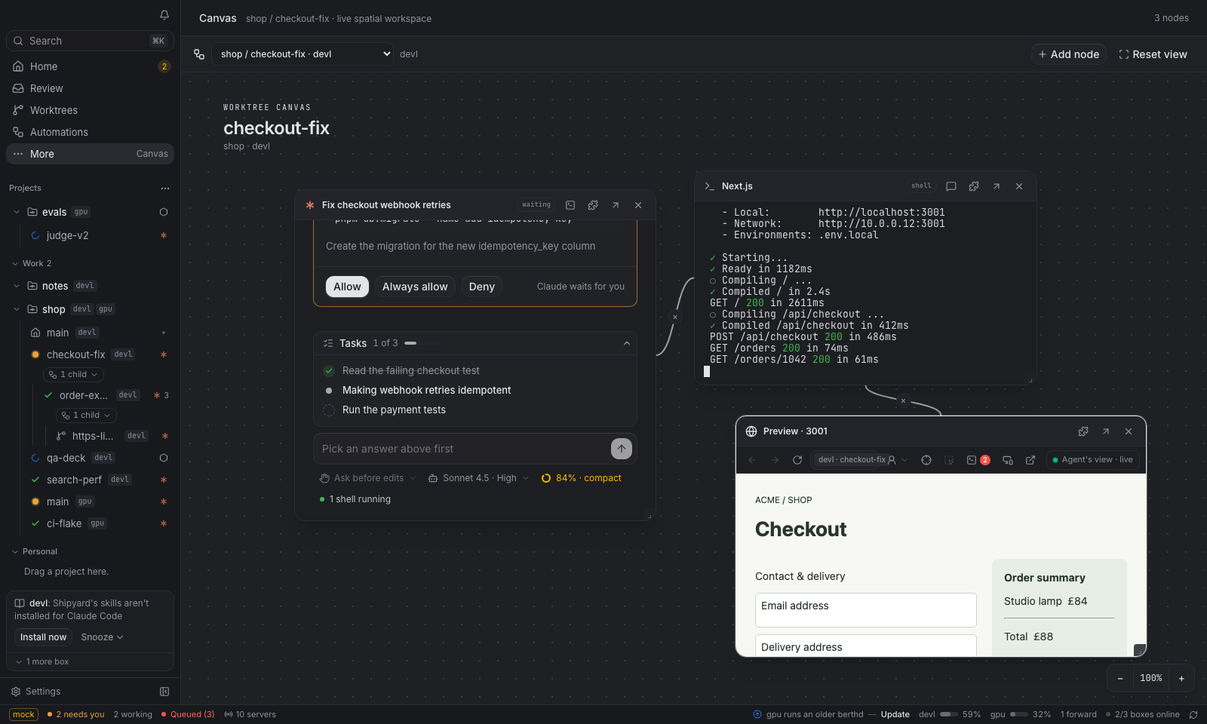
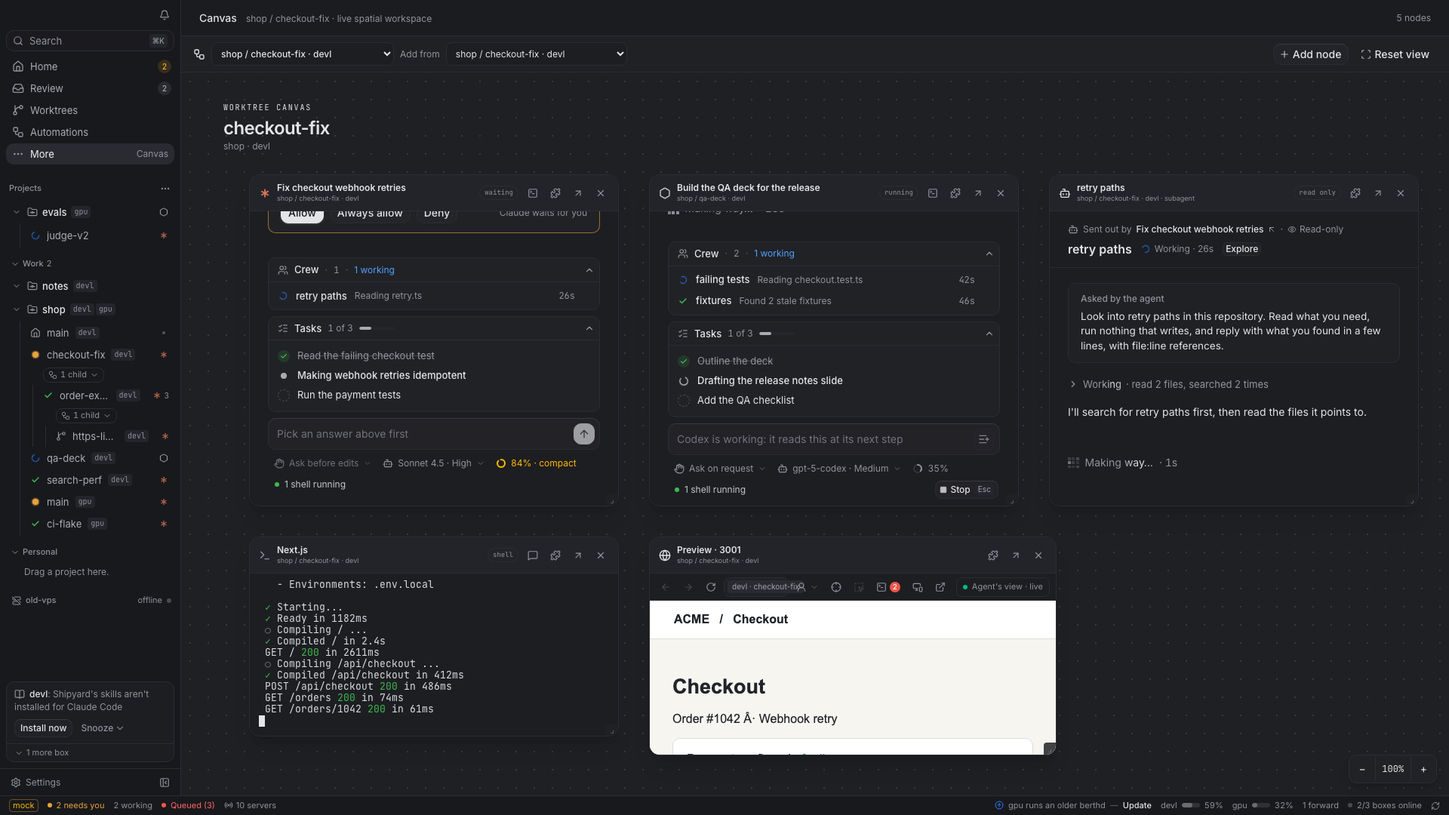
feat(app): show multiple worktrees and subagents on canvas

diff --git a/plugins/canvas/src/index.tsx b/plugins/canvas/src/index.tsx
@@ -1,13 +1,15 @@
-import { definePlugin, useBoxes, useCurrentWorktree, useEvent, useSessions, useStorage, type CurrentWorktree, type ScreenProps, type Service, type Session } from "@berth/plugin";
-import { AgentIcon, BrowserSurface, Button, Icon, Menu, MenuItem, MenuPopup, MenuSeparator, MenuTrigger, SessionSurface, ViewHeader } from "@berth/plugin/ui";
+import { definePlugin, useBoxes, useCurrentWorktree, useEvent, useFleetSessions, useStorage, type CurrentWorktree, type ScreenProps, type Service, type Session } from "@berth/plugin";
+import { AgentIcon, BrowserSurface, Button, HelperSurface, Icon, Menu, MenuItem, MenuPopup, MenuSeparator, MenuTrigger, SessionSurface, ViewHeader } from "@berth/plugin/ui";
 import { useEffect, useMemo, useRef, useState, type PointerEvent as ReactPointerEvent } from "react";
 
 const MIN_ZOOM = 0.55;
 const MAX_ZOOM = 1.5;
 
-type SessionNode = { id: string; kind: "session"; box: string; session: string; agent?: string; mode: "chat" | "terminal"; x: number; y: number; w: number; h: number };
-type PreviewNode = { id: string; kind: "preview"; box: string; port: number; x: number; y: number; w: number; h: number };
-type Node = SessionNode | PreviewNode;
+type BaseNode = { id: string; box: string; source?: Worktree; x: number; y: number; w: number; h: number };
+type SessionNode = BaseNode & { kind: "session"; session: string; agent?: string; mode: "chat" | "terminal" };
+type PreviewNode = BaseNode & { kind: "preview"; port: number };
+type HelperNode = BaseNode & { kind: "helper"; session: string; helper: string; name: string };
+type Node = SessionNode | PreviewNode | HelperNode;
 type Link = { from: string; to: string };
 type Board = { nodes: Node[]; links: Link[] };
 type Worktree = CurrentWorktree;
@@ -16,7 +18,10 @@ type Gesture = { id: string; kind: "move" | "resize"; x: number; y: number; node
 const keyOf = (w: Worktree) => `${w.box}:${w.path}`;
 const sessionId = (box: string, session: string) => `session:${box}:${session}`;
 const previewId = (box: string, port: number) => `preview:${box}:${port}`;
+const helperId = (box: string, session: string, helper: string) => `helper:${box}:${session}:${helper}`;
 const clamp = (n: number, min: number, max: number) => Math.min(max, Math.max(min, n));
+type CanvasHelper = { id: string; name: string; state: "running" | "finished" };
+const belongsTo = (path: string, w: Worktree) => path === w.path || path.startsWith(`${w.path}/`);
 
 function linkGeometry(from: Node, to: Node) {
   const overlap = from.x < to.x + to.w && to.x < from.x + from.w;
@@ -44,6 +49,7 @@ function CanvasScreen({ berth }: ScreenProps) {
   const [worktrees, setWorktrees] = useState<Worktree[]>([]);
   const [stamp, setStamp] = useState(0);
   const [savedKey, setSavedKey] = useStorage("selected-worktree", "");
+  const [sourceKey, setSourceKey] = useState("");
   const [boards, setBoards] = useStorage<Record<string, Board>>("boards", {});
   const [zoom, setZoom] = useState(1);
   const [pan, setPan] = useState({ x: 0, y: 0 });
@@ -53,7 +59,8 @@ function CanvasScreen({ berth }: ScreenProps) {
   const viewport = useRef<HTMLDivElement>(null);
   const gesture = useRef<Gesture | undefined>(undefined);
   const panGesture = useRef<{ x: number; y: number; startX: number; startY: number } | undefined>(undefined);
-  const [services, setServices] = useState<Service[]>([]);
+  const [services, setServices] = useState<Record<string, Service[]>>({});
+  const [helpers, setHelpers] = useState<Record<string, CanvasHelper[]>>({});
   const [creating, setCreating] = useState(false);
   const [createError, setCreateError] = useState("");
   const online = boxes.filter((b) => b.state === "online").map((b) => b.name).join("|");
@@ -75,25 +82,43 @@ function CanvasScreen({ berth }: ScreenProps) {
   const allWorktrees = useMemo(() => here && !worktrees.some((w) => keyOf(w) === keyOf(here)) ? [here, ...worktrees] : worktrees, [here, worktrees]);
   const boardKey = allWorktrees.some((w) => keyOf(w) === savedKey) ? savedKey : here && allWorktrees.some((w) => keyOf(w) === keyOf(here)) ? keyOf(here) : allWorktrees[0] ? keyOf(allWorktrees[0]) : "";
   const worktree = allWorktrees.find((w) => keyOf(w) === boardKey);
-  const sessions = useSessions(worktree?.box ?? "") ?? [];
-  const ownedSessions = useMemo(() => sessions.filter((s) => worktree && (s.dir === worktree.path || s.dir.startsWith(`${worktree.path}/`))), [sessions, worktree]);
+  const sourceWorktree = allWorktrees.find((w) => keyOf(w) === sourceKey) ?? worktree;
+  const fleetSessions = useFleetSessions();
+  const ownedSessions = useMemo(() => (fleetSessions[worktree?.box ?? ""] ?? []).filter((s) => worktree && belongsTo(s.dir, worktree)), [fleetSessions, worktree]);
+  const sourceSessions = useMemo(() => (fleetSessions[sourceWorktree?.box ?? ""] ?? []).filter((s) => sourceWorktree && belongsTo(s.dir, sourceWorktree)), [fleetSessions, sourceWorktree]);
+  const ownedServices = (services[worktree?.box ?? ""] ?? []).filter((s) => worktree && (s.path === worktree.path || s.location === worktree.location && s.worktree === worktree.worktree));
+  const sourceServices = (services[sourceWorktree?.box ?? ""] ?? []).filter((s) => sourceWorktree && (s.path === sourceWorktree.path || s.location === sourceWorktree.location && s.worktree === sourceWorktree.worktree));
 
   useEffect(() => {
-    if (!worktree) { setServices([]); return; }
     let live = true;
-    const load = () => void berth.api.services(worktree.box).then((list) => {
-      if (live) setServices(list.filter((s) => s.path === worktree.path || s.location === worktree.location && s.worktree === worktree.worktree));
-    }).catch(() => { if (live) setServices([]); });
+    const names = online ? online.split("|") : [];
+    const load = () => void Promise.all(names.map(async (box) => [box, await berth.api.services(box).catch(() => [])] as const)).then((pairs) => {
+      if (live) setServices(Object.fromEntries(pairs));
+    });
     load();
     const timer = window.setInterval(() => { if (!document.hidden) load(); }, 10_000);
     return () => { live = false; window.clearInterval(timer); };
-  }, [berth, worktree?.box, worktree?.path, worktree?.location, worktree?.worktree, stamp]);
+  }, [berth, online, stamp]);
+
+  const sourceAgentNames = sourceSessions.filter((s) => !!s.agent).map((s) => s.name).join("|");
+  useEffect(() => {
+    if (!sourceWorktree) { setHelpers({}); return; }
+    let live = true;
+    const names = sourceAgentNames ? sourceAgentNames.split("|") : [];
+    const load = () => void Promise.all(names.map(async (session) => {
+      const result = await berth.api.request<{ helpers?: CanvasHelper[] }>(sourceWorktree.box, "GET", `sessions/${encodeURIComponent(session)}/subagents`).catch(() => ({ helpers: [] }));
+      return [session, result.helpers ?? []] as const;
+    })).then((pairs) => { if (live) setHelpers(Object.fromEntries(pairs)); });
+    load();
+    const timer = window.setInterval(() => { if (!document.hidden) load(); }, 5_000);
+    return () => { live = false; window.clearInterval(timer); };
+  }, [berth, sourceWorktree?.box, sourceAgentNames]);
 
   const suggested = useMemo<Board>(() => {
     const first = [...ownedSessions].sort((a, b) => Number(!!b.agent) - Number(!!a.agent) || b.created.localeCompare(a.created)).slice(0, 3);
-    const nodes: Node[] = first.map((s, i) => ({ id: sessionId(worktree!.box, s.name), kind: "session", box: worktree!.box, session: s.name, agent: s.agent, mode: s.agent ? "chat" : "terminal", x: i === 0 ? 150 : i === 1 ? 680 : 185, y: i === 0 ? 155 : i === 1 ? 130 : 655, w: i === 1 ? 455 : 480, h: i === 0 ? 440 : i === 1 ? 285 : 300 }));
-    const firstService = services[0];
-    if (firstService && worktree) nodes.push({ id: previewId(worktree.box, firstService.port), kind: "preview", box: worktree.box, port: firstService.port, x: 735, y: 455, w: 545, h: 320 });
+    const nodes: Node[] = first.map((s, i) => ({ id: sessionId(worktree!.box, s.name), kind: "session", box: worktree!.box, source: worktree, session: s.name, agent: s.agent, mode: s.agent ? "chat" : "terminal", x: i === 0 ? 150 : i === 1 ? 680 : 185, y: i === 0 ? 155 : i === 1 ? 130 : 655, w: i === 1 ? 455 : 480, h: i === 0 ? 440 : i === 1 ? 285 : 300 }));
+    const firstService = ownedServices[0];
+    if (firstService && worktree) nodes.push({ id: previewId(worktree.box, firstService.port), kind: "preview", box: worktree.box, source: worktree, port: firstService.port, x: 735, y: 455, w: 545, h: 320 });
     return { nodes, links: [] };
   }, [ownedSessions, services, worktree]);
   const board = boards[boardKey] ?? suggested;
@@ -114,18 +139,19 @@ function CanvasScreen({ berth }: ScreenProps) {
     save({ ...boardRef.current, nodes: [...boardRef.current.nodes, { ...node, x: Math.round((centerX - pan.x) / zoom - node.w / 2 + offset), y: Math.round((centerY - pan.y) / zoom - node.h / 2 + offset) }] });
     setSelectedNode(node.id);
   };
-  const addSession = (s: Session) => add({ id: sessionId(worktree!.box, s.name), kind: "session", box: worktree!.box, session: s.name, agent: s.agent, mode: s.agent ? "chat" : "terminal", x: 0, y: 0, w: 480, h: 460 });
-  const addPreview = (svc: Service) => add({ id: previewId(worktree!.box, svc.port), kind: "preview", box: worktree!.box, port: svc.port, x: 0, y: 0, w: 570, h: 385 });
+  const addSession = (s: Session, source: Worktree) => add({ id: sessionId(source.box, s.name), kind: "session", box: source.box, source, session: s.name, agent: s.agent, mode: s.agent ? "chat" : "terminal", x: 0, y: 0, w: 480, h: 460 });
+  const addPreview = (svc: Service, source: Worktree) => add({ id: previewId(source.box, svc.port), kind: "preview", box: source.box, source, port: svc.port, x: 0, y: 0, w: 570, h: 385 });
+  const addHelper = (s: Session, helper: CanvasHelper, source: Worktree) => add({ id: helperId(source.box, s.name, helper.id), kind: "helper", box: source.box, source, session: s.name, helper: helper.id, name: helper.name, x: 0, y: 0, w: 480, h: 460 });
   const createTerminal = async () => {
-    if (!worktree || creating) return;
+    if (!sourceWorktree || creating) return;
     setCreating(true);
     setCreateError("");
-    try { addSession(await berth.api.startSession(worktree)); }
+    try { addSession(await berth.api.startSession(sourceWorktree), sourceWorktree); }
     catch (err) { setCreateError(err instanceof Error ? err.message : String(err)); }
     finally { setCreating(false); }
   };
 
-  useEffect(() => { setLinkFrom(undefined); setSelectedNode(undefined); setPan({ x: 0, y: 0 }); setZoom(1); }, [boardKey]);
+  useEffect(() => { setLinkFrom(undefined); setSelectedNode(undefined); setPan({ x: 0, y: 0 }); setZoom(1); setSourceKey(boardKey); }, [boardKey]);
   const begin = (e: ReactPointerEvent<HTMLElement>, node: Node, kind: Gesture["kind"]) => {
     if (e.button !== 0 || linkFrom || (e.target as HTMLElement).closest("button")) return;
     gesture.current = { id: node.id, kind, x: e.clientX, y: e.clientY, node };
@@ -181,16 +207,20 @@ function CanvasScreen({ berth }: ScreenProps) {
       <select aria-label="Canvas worktree" className="max-w-64 min-w-36 rounded-md border bg-background px-2 py-1.5 text-xs font-medium text-foreground" value={boardKey} onChange={(e) => setSavedKey(e.target.value)}>
         {allWorktrees.map((w) => <option key={keyOf(w)} value={keyOf(w)}>{w.location} / {w.worktree} · {w.box}</option>)}
       </select>
-      {worktree && <span className="hidden text-xs text-muted-foreground sm:block">{worktree.box}</span>}
+      {worktree && <><span className="text-xs text-muted-foreground">Add from</span><select aria-label="Source worktree" className="max-w-64 min-w-36 rounded-md border bg-background px-2 py-1.5 text-xs text-foreground" value={sourceWorktree ? keyOf(sourceWorktree) : ""} onChange={(e) => setSourceKey(e.target.value)}>
+        {allWorktrees.map((w) => <option key={keyOf(w)} value={keyOf(w)}>{w.location} / {w.worktree} · {w.box}</option>)}
+      </select></>}
       <div className="flex-1" />
       {createError && <span role="alert" className="max-w-60 truncate text-xs text-destructive">{createError}</span>}
       {linkFrom && <span className="text-xs text-primary">Choose a node for a visual link · <button className="underline" onClick={() => setLinkFrom(undefined)}>Cancel</button></span>}
-      {worktree && <Menu><MenuTrigger render={<Button size="sm" variant="outline" />}><Icon name="Plus" className="size-3.5" /> Add node</MenuTrigger><MenuPopup align="end" className="max-h-80 min-w-64 overflow-y-auto">
+      {sourceWorktree && <Menu><MenuTrigger render={<Button size="sm" variant="outline" />}><Icon name="Plus" className="size-3.5" /> Add node</MenuTrigger><MenuPopup align="end" className="max-h-80 min-w-64 overflow-y-auto">
+        <div className="px-2 py-1.5 text-xs font-medium text-muted-foreground">{sourceWorktree.location} / {sourceWorktree.worktree} · {sourceWorktree.box}</div>
         <MenuItem disabled={creating} onClick={() => void createTerminal()}><Icon name="SquareTerminal" className="size-3.5" /> New terminal</MenuItem>
         <MenuSeparator />
-        {ownedSessions.length ? ownedSessions.map((s) => <MenuItem key={s.name} onClick={() => addSession(s)}><Icon name={s.agent ? "Bot" : "SquareTerminal"} className="size-3.5" /> <span className="max-w-52 truncate">{s.title || s.name}</span></MenuItem>) : <MenuItem disabled>No sessions in this worktree</MenuItem>}
+        {sourceSessions.length ? sourceSessions.map((s) => <MenuItem key={s.name} onClick={() => addSession(s, sourceWorktree)}><Icon name={s.agent ? "Bot" : "SquareTerminal"} className="size-3.5" /> <span className="max-w-52 truncate">{s.title || s.name}</span></MenuItem>) : <MenuItem disabled>No sessions in this worktree</MenuItem>}
         <MenuSeparator />
-        {services.length ? services.map((svc) => <MenuItem key={svc.port} onClick={() => addPreview(svc)}><Icon name="Globe" className="size-3.5" /> Preview · port {svc.port}</MenuItem>) : <MenuItem disabled>No running previews</MenuItem>}
+        {sourceServices.length ? sourceServices.map((svc) => <MenuItem key={svc.port} onClick={() => addPreview(svc, sourceWorktree)}><Icon name="Globe" className="size-3.5" /> Preview · port {svc.port}</MenuItem>) : <MenuItem disabled>No running previews</MenuItem>}
+        {Object.values(helpers).some((list) => list.length) && <><MenuSeparator /><div className="px-2 py-1.5 text-xs font-medium text-muted-foreground">Subagents · read only</div>{sourceSessions.flatMap((s) => (helpers[s.name] ?? []).map((helper) => <MenuItem key={`${s.name}:${helper.id}`} onClick={() => addHelper(s, helper, sourceWorktree)}><Icon name="Bot" className="size-3.5" /> <span className="max-w-52 truncate">{helper.name}</span></MenuItem>))}</>}
       </MenuPopup></Menu>}
       <Button size="sm" variant="ghost" onClick={() => { setPan({ x: 0, y: 0 }); setZoom(1); }}><Icon name="Scan" className="size-3.5" /> Reset view</Button>
     </div>
@@ -210,22 +240,25 @@ function CanvasScreen({ berth }: ScreenProps) {
         })}
         {shown.map((node) => {
           const isSession = node.kind === "session";
-          const liveSession = isSession ? ownedSessions.find((s) => s.name === node.session) : undefined;
-          const label = isSession ? liveSession?.title || node.session : `Preview · ${node.port}`;
+          const source = node.source ?? worktree;
+          const liveSession = node.kind !== "preview" ? fleetSessions[node.box]?.find((s) => s.name === node.session) : undefined;
+          const label = isSession ? liveSession?.title || node.session : node.kind === "helper" ? node.name : `Preview · ${node.port}`;
           const active = selectedNode === node.id;
           return <section key={node.id} aria-label={`${label} canvas node`} className={`absolute flex flex-col overflow-hidden rounded-xl border bg-card shadow-xl ${active ? "border-primary ring-1 ring-primary/30" : "border-border"}`} style={{ left: node.x, top: node.y, width: node.w, height: node.h, pointerEvents: "auto" }} onClick={() => clickNode(node.id)}>
-            <header className={`flex h-10 shrink-0 cursor-grab items-center gap-2 border-b bg-muted/50 px-3 active:cursor-grabbing ${linkFrom ? "cursor-crosshair" : ""}`} onPointerDown={(e) => begin(e, node, "move")} onPointerMove={move} onPointerUp={end} onPointerCancel={end}>
-              {isSession ? <AgentIcon agent={liveSession?.agent ?? node.agent} className="size-4 shrink-0" /> : <Icon name="Globe" className="size-4 shrink-0 text-primary" />}
-              <span className="min-w-0 flex-1 truncate text-xs font-semibold">{label}</span>
+            <header className={`flex h-12 shrink-0 cursor-grab items-center gap-2 border-b bg-muted/50 px-3 active:cursor-grabbing ${linkFrom ? "cursor-crosshair" : ""}`} onPointerDown={(e) => begin(e, node, "move")} onPointerMove={move} onPointerUp={end} onPointerCancel={end}>
+              {isSession ? <AgentIcon agent={liveSession?.agent ?? node.agent} className="size-4 shrink-0" /> : <Icon name={node.kind === "helper" ? "Bot" : "Globe"} className="size-4 shrink-0 text-primary" />}
+              <span className="min-w-0 flex-1"><span className="block truncate text-xs font-semibold">{label}</span><span className="block truncate text-[9px] text-muted-foreground">{source ? `${source.location} / ${source.worktree} · ${source.box}` : node.box}{node.kind === "helper" ? " · subagent" : ""}</span></span>
               {isSession && <span className="rounded-full border px-1.5 py-0.5 font-mono text-[9px] text-muted-foreground">{liveSession?.exited ? "ended" : liveSession?.agent_state ?? (node.agent ? "agent" : "shell")}</span>}
+              {node.kind === "helper" && <span className="rounded-full border px-1.5 py-0.5 font-mono text-[9px] text-muted-foreground">read only</span>}
               {isSession && <button aria-label={node.mode === "chat" ? "Show terminal" : "Show chat"} className="rounded p-1 text-muted-foreground hover:bg-accent hover:text-foreground" onClick={(e) => { e.stopPropagation(); replace(node.id, { mode: node.mode === "chat" ? "terminal" : "chat" }); }}><Icon name={node.mode === "chat" ? "SquareTerminal" : "MessageSquare"} className="size-3.5" /></button>}
               <button aria-label="Link from this node" className="rounded p-1 text-muted-foreground hover:bg-accent hover:text-foreground" onClick={(e) => { e.stopPropagation(); setLinkFrom(node.id); }}><Icon name="Link2" className="size-3.5" /></button>
-              <button aria-label={isSession ? "Open session in workspace" : "Open preview in browser"} className="rounded p-1 text-muted-foreground hover:bg-accent hover:text-foreground" onClick={(e) => { e.stopPropagation(); if (isSession) berth.openTerminal(node.box, node.session); else berth.openBrowser(berth.api.serviceUrl(node.box, node.port)); }}><Icon name="ArrowUpRight" className="size-3.5" /></button>
+              <button aria-label={isSession ? "Open session in workspace" : node.kind === "helper" ? "Open parent session" : "Open preview in browser"} className="rounded p-1 text-muted-foreground hover:bg-accent hover:text-foreground" onClick={(e) => { e.stopPropagation(); if (node.kind !== "preview") berth.openTerminal(node.box, node.session); else { if (source) berth.openWorktree(source); berth.openBrowser(berth.api.serviceUrl(node.box, node.port)); } }}><Icon name="ArrowUpRight" className="size-3.5" /></button>
               <button aria-label="Remove node" className="rounded p-1 text-muted-foreground hover:bg-accent hover:text-foreground" onClick={(e) => { e.stopPropagation(); remove(node.id); }}><Icon name="X" className="size-3.5" /></button>
             </header>
-            <div className="relative min-h-0 flex-1 overflow-hidden">{isSession
+            <div className="relative min-h-0 flex-1 overflow-hidden">{node.kind === "session"
               ? <SessionSurface box={node.box} session={node.session} agent={liveSession?.agent ?? node.agent} mode={node.mode} visible focused={active} onModeChange={(mode: "chat" | "terminal") => replace(node.id, { mode })} />
-              : <BrowserSurface id={node.id} url={berth.api.serviceUrl(node.box, node.port)} worktree={boardKey} visible />}</div>
+              : node.kind === "helper" ? <HelperSurface box={node.box} session={node.session} helper={node.helper} name={node.name} onClose={() => remove(node.id)} />
+              : <BrowserSurface id={node.id} url={berth.api.serviceUrl(node.box, node.port)} worktree={source ? keyOf(source) : boardKey} visible />}</div>
             <div role="button" tabIndex={0} aria-label={`Resize ${label}`} className="absolute right-0 bottom-0 z-10 size-4 cursor-nwse-resize rounded-tl bg-card/85 text-center text-[10px] leading-4 text-muted-foreground" onPointerDown={(e) => { e.stopPropagation(); begin(e, node, "resize"); }} onPointerMove={move} onPointerUp={end} onPointerCancel={end} onKeyDown={(e) => {
               if (!["ArrowRight", "ArrowLeft", "ArrowUp", "ArrowDown"].includes(e.key)) return;
               e.preventDefault();
@@ -233,7 +266,7 @@ function CanvasScreen({ berth }: ScreenProps) {
             }}>⌟</div>
           </section>;
         })}
-        {!shown.length && <div className="absolute top-52 left-60 flex w-96 flex-col items-center rounded-xl border bg-card/85 px-7 py-8 text-center shadow-lg"><Icon name="Workflow" className="mb-3 size-7 text-primary" /><h2 className="text-base font-semibold">Give this worktree some room</h2><p className="mt-2 text-sm text-muted-foreground">Start a terminal here or add a session or dev server already running in this worktree. Your layout stays on this computer.</p><Button size="sm" className="mt-4" onClick={() => void createTerminal()}>New terminal</Button></div>}
+        {!shown.length && <div className="absolute top-52 left-60 flex w-96 flex-col items-center rounded-xl border bg-card/85 px-7 py-8 text-center shadow-lg"><Icon name="Workflow" className="mb-3 size-7 text-primary" /><h2 className="text-base font-semibold">Give this worktree some room</h2><p className="mt-2 text-sm text-muted-foreground">Add sessions, subagents, or previews from any worktree. Your layout stays on this computer.</p><Button size="sm" className="mt-4" onClick={() => void createTerminal()}>New terminal</Button></div>}
       </div> : <div className="flex h-full items-center justify-center text-sm text-muted-foreground">Open a worktree to start its canvas.</div>}
       <div className="absolute right-4 bottom-4 z-20 flex w-fit items-center overflow-hidden rounded-lg border bg-card shadow-lg"><button aria-label="Zoom out" className="px-3 py-2 text-sm hover:bg-accent" onClick={() => zoomTo(zoom - .1)}>−</button><span className="min-w-12 border-x px-2 py-2 text-center font-mono text-xs">{Math.round(zoom * 100)}%</span><button aria-label="Zoom in" className="px-3 py-2 text-sm hover:bg-accent" onClick={() => zoomTo(zoom + .1)}>+</button></div>
     </div>

diff --git a/app/e2e/canvas.spec.ts b/app/e2e/canvas.spec.ts
@@ -77,3 +77,55 @@ test("canvas arranges live work and remembers edits", async ({ app }) => {
     return Object.values(saved)[0].nodes.length;
   }).toBe(4);
 });
+
+test("canvas combines worktrees and gives subagents their own nodes", async ({ app }) => {
+  mockOnly();
+  await app.open();
+  await app.openWorktree("devl/checkout-fix");
+  await app.page.getByRole("button", { name: "More", exact: true }).click();
+  await app.page.getByRole("menuitem", { name: "Canvas" }).click();
+
+  const board = app.page.getByRole("combobox", { name: "Canvas worktree" });
+  const source = app.page.getByRole("combobox", { name: "Source worktree" });
+  await expect(board).toHaveValue("devl:/home/me/work/shop-checkout-fix");
+  await source.selectOption("devl:/home/me/work/shop-qa-deck");
+  await app.page.getByRole("button", { name: "Add node" }).click();
+  await app.page.getByRole("menuitem", { name: "Build the QA deck for the release" }).click();
+  const otherAgent = app.page.locator('section[aria-label="Build the QA deck for the release canvas node"]');
+  await expect(otherAgent).toBeVisible();
+  await expect(otherAgent).toContainText("shop / qa-deck · devl");
+  await expect(otherAgent.getByTestId("chat")).toBeVisible();
+  await expect(app.page.locator('section[aria-label="Fix checkout webhook retries canvas node"]')).toContainText("shop / checkout-fix · devl");
+
+  await app.page.getByRole("button", { name: "Add node" }).click();
+  await app.page.getByRole("menuitem", { name: "Preview · port 4789" }).click();
+  const otherPreview = app.page.locator('section[aria-label="Preview · 4789 canvas node"]');
+  await expect(otherPreview).toContainText("shop / qa-deck · devl");
+
+  await app.page.evaluate(() => {
+    (window as unknown as { __berthCrew: { set(box: string, session: string, members: unknown[]): void } }).__berthCrew.set("devl", "checkout-fix-claude", [
+      { id: "canvas-helper-1", name: "Explore: retry paths", state: "running", doing: "Reading retry.ts", ago: 25 },
+    ]);
+  });
+  await source.selectOption("devl:/home/me/work/shop-checkout-fix");
+  await expect.poll(async () => {
+    await app.page.getByRole("button", { name: "Add node" }).click();
+    const found = await app.page.getByRole("menuitem", { name: "retry paths" }).count();
+    await app.page.keyboard.press("Escape");
+    return found;
+  }, { timeout: 12_000 }).toBe(1);
+  await app.page.getByRole("button", { name: "Add node" }).click();
+  await app.page.getByRole("menuitem", { name: "retry paths" }).click();
+  const helper = app.page.locator('section[aria-label="retry paths canvas node"]');
+  await expect(helper).toContainText("subagent");
+  await expect(helper.getByTestId("helper")).toHaveAttribute("data-state", "running");
+  await expect(helper.getByText("Read-only", { exact: true })).toBeVisible();
+
+  await app.page.reload();
+  await app.page.getByRole("button", { name: "More", exact: true }).click();
+  await app.page.getByRole("menuitem", { name: "Canvas" }).click();
+  await expect(otherAgent).toBeVisible();
+  await expect(otherPreview).toBeVisible();
+  await expect(helper).toBeVisible();
+  await expect(board).toHaveValue("devl:/home/me/work/shop-checkout-fix");
+});

diff --git a/app/src/plugins/surfaces.tsx b/app/src/plugins/surfaces.tsx
@@ -5,6 +5,7 @@ import { Spinner } from "@/components/ui/spinner";
 const TerminalView = lazy(() => import("@/components/workspace/terminal-view").then((m) => ({ default: m.TerminalView })));
 const ConversationPane = lazy(() => import("@/components/conversation/conversation-pane").then((m) => ({ default: m.ConversationPane })));
 const BrowserPane = lazy(() => import("@/components/browser-pane").then((m) => ({ default: m.BrowserPane })));
+const HelperPane = lazy(() => import("@/components/conversation/helper-pane").then((m) => ({ default: m.HelperPane })));
 
 interface SessionSurfaceProps {
   box: string;
@@ -30,6 +31,17 @@ export function SessionSurface({ box, session, agent, mode, visible = true, focu
       </Suspense>
     </div>
   );
+}
+
+// A subagent owns a transcript, but not a terminal. Reuse its read-only live
+// pane so a canvas can show it beside its parent or another worktree.
+export function HelperSurface({ box, session, helper, name, onClose }: { box: string; session: string; helper: string; name?: string; onClose(): void }) {
+  const [resolved, setResolved] = useState({ id: helper, name });
+  return <div className="relative flex h-full min-h-0 w-full flex-col overflow-hidden">
+    <Suspense fallback={<div className="flex h-full items-center justify-center"><Spinner className="size-5" /></div>}>
+      <HelperPane box={box} session={session} helper={resolved.id} title={resolved.name} onResolve={(id, title) => setResolved({ id, name: title })} onClose={onClose} />
+    </Suspense>
+  </div>;
 }
 
 interface BrowserSurfaceProps {

diff --git a/app/public/shims/berth-plugin-ui.js b/app/public/shims/berth-plugin-ui.js
@@ -8,5 +8,5 @@ export const {
   Tooltip, TooltipTrigger, TooltipPopup, Icon, cn, ViewHeader, PluginPage,
   Frame, FramePanel, FrameHeader, FrameTitle, FrameDescription, FrameFooter, Tabs, TabsList, TabsTab, TabsPanel, Textarea, AlertDialog, AlertDialogTrigger, AlertDialogPopup, AlertDialogHeader, AlertDialogFooter, AlertDialogTitle, AlertDialogDescription, AlertDialogClose, ToggleGroup, ToggleGroupItem, Meter, MeterLabel, MeterTrack, MeterIndicator, MeterValue, Alert, AlertTitle, AlertDescription, Skeleton, Menu, MenuTrigger, MenuPopup, MenuItem, MenuGroup, MenuGroupLabel, MenuSeparator,
   Sheet, SheetPopup, SheetHeader, SheetTitle, SheetDescription, SheetPanel, SheetFooter, SheetClose, Checkbox, PickOne, BoxFilter, FilterChip, Tip, AgentPicker, AgentIcon,
-  loadDiffs, WidgetRow, WidgetEmpty, WidgetSkeleton, Chart, SqlEditor, SessionSurface, BrowserSurface, HelperBox, useHelperState,
+  loadDiffs, WidgetRow, WidgetEmpty, WidgetSkeleton, Chart, SqlEditor, SessionSurface, HelperSurface, BrowserSurface, HelperBox, useHelperState,
 } = ui;

diff --git a/packages/plugin-sdk/src/ui.ts b/packages/plugin-sdk/src/ui.ts
@@ -113,6 +113,7 @@ export declare const AgentIcon: ComponentType<{ agent?: string; className?: stri
 // The app's live conversation/terminal and browser views, embeddable in a
 // plugin screen. Their parent must give them a bounded height.
 export declare const SessionSurface: ComponentType<{ box: string; session: string; agent?: string; mode: "chat" | "terminal"; visible?: boolean; focused?: boolean; onModeChange?(mode: "chat" | "terminal"): void }>;
+export declare const HelperSurface: ComponentType<{ box: string; session: string; helper: string; name?: string; onClose(): void }>;
 export declare const BrowserSurface: ComponentType<{ id: string; url: string; worktree?: string; visible?: boolean; onNavigate?(url: string): void }>;
 // The strip at the top of a screen: <ViewHeader title description actions />.
 // Render it anywhere in a screen and it takes the app's strip, so the screen

diff --git a/app/src/plugins/ui.tsx b/app/src/plugins/ui.tsx
@@ -33,7 +33,7 @@ import { AgentIcon } from "@/components/agent-glyph";
 import { loadDiffs } from "@/components/diff/load";
 import { cn } from "@/lib/utils";
 import { HelperBox, useHelperState } from "@/plugins/helper-box";
-import { BrowserSurface, SessionSurface } from "@/plugins/surfaces";
+import { BrowserSurface, HelperSurface, SessionSurface } from "@/plugins/surfaces";
 import { WidgetEmpty, WidgetRow, WidgetSkeleton } from "@/views/home/widgets/parts";
 import { PluginPage, ViewHeader } from "@/views/view-header";
 
@@ -163,6 +163,7 @@ export const pluginUi = {
   Chart,
   SqlEditor,
   SessionSurface,
+  HelperSurface,
   BrowserSurface,
   HelperBox,
   useHelperState,

diff --git a/app/src/plugins/sdk-runtime.ts b/app/src/plugins/sdk-runtime.ts
@@ -35,6 +35,13 @@ export function useSessions(box: string) {
   return useStore((s) => s.boxes[box]?.sessions);
 }
 
+// A stable snapshot of every box, for screens that span worktrees on more
+// than one machine. Consumers derive sessions from it without dynamic hooks.
+export function useFleetSessions() {
+  const boxes = useStore((s) => s.boxes);
+  return useMemo(() => Object.fromEntries(Object.entries(boxes).map(([name, box]) => [name, box.sessions ?? []])), [boxes]);
+}
+
 export function useStats(box: string) {
   return useStore((s) => s.boxes[box]?.stats);
 }

diff --git a/packages/plugin-sdk/src/index.ts b/packages/plugin-sdk/src/index.ts
@@ -564,6 +564,7 @@ export declare function useBerth(): BerthPluginContext;
 export declare function useBoxes(): BoxStatus[];
 export declare function useLocations(box: string): Location[] | undefined;
 export declare function useSessions(box: string): Session[] | undefined;
+export declare function useFleetSessions(): Record<string, Session[]>;
 export declare function useStats(box: string): Stats | undefined;
 export declare function useEvent(type: string, handler: EventHandler): void;
 // The worktree a component is for: inside a pane, that pane's (a tab can

diff --git a/app/public/shims/berth-plugin.js b/app/public/shims/berth-plugin.js
@@ -1,4 +1,4 @@
 // The plugin SDK's runtime half, provided by the app. See src/plugins/host.ts.
 const sdk = globalThis.__berth.sdk;
 export default sdk;
-export const { definePlugin, useBerth, useBoxes, useLocations, useSessions, useStats, useEvent, useCurrentWorktree, useStorage, useWidgetData, useProjects, worktreeLocation, sessionName } = sdk;
+export const { definePlugin, useBerth, useBoxes, useLocations, useSessions, useFleetSessions, useStats, useEvent, useCurrentWorktree, useStorage, useWidgetData, useProjects, worktreeLocation, sessionName } = sdk;

diff --git a/plugins/README.md b/plugins/README.md
@@ -12,7 +12,7 @@ Plugins: see "How the listing ships" below.
 | [git-changes](git-changes) | Worktree panel "Changes" | See what an agent changed before you trust it: files, diffs, commit and push. |
 | [diff](diff) | Worktree panel "Diff" | The branch's whole diff in one view (split or unified, vs the default branch or uncommitted), drawn with [@pierre/diffs](https://diffs.com). |
 | [pull-request](pull-request) | Worktree panel "Pull request" | The branch's PR, its checks, reviews and comments, or open one. |
-| [canvas](canvas) | Screen and sidebar item | Live chats, terminals and previews arranged on a canvas for each worktree. |
+| [canvas](canvas) | Screen and sidebar item | Live chats, terminals, subagents and previews from multiple worktrees on one canvas. |
 | [dev-servers](dev-servers) | Screen, sidebar item, status bar item | Every dev server on every box, one click from a browser tab. |
 | [box-monitor](box-monitor) | Screen, sidebar item | Memory, disk and load with an hour of history, and a warning before a box runs out. |
 | [activity](activity) | Screen, sidebar item | What happened on every box while you were away. |

diff --git a/plugins/canvas/README.md b/plugins/canvas/README.md
@@ -1,5 +1,5 @@
 # Canvas
 
-A built-in Shipyard plugin that gives each worktree a spatial workspace. It arranges the app's live conversation and terminal views alongside browser previews for running services. Start a terminal, drag, resize, pan, zoom, and make visual links between nodes. Layouts are stored locally by worktree. Opening a node in the usual workspace is always one click away.
+A built-in Shipyard plugin that gives each worktree a spatial workspace. Choose a board, then pick any source worktree to add live conversations, terminals, read-only subagent conversations, or browser previews. Every node shows its source. Start a terminal, drag, resize, pan, zoom, and make visual links between nodes. Layouts are stored locally by board worktree. Opening a node in the usual workspace is one click away.
 
 The links are visual references. They do not send prompts or commands between sessions.
